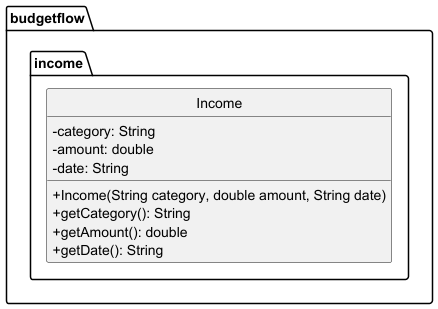
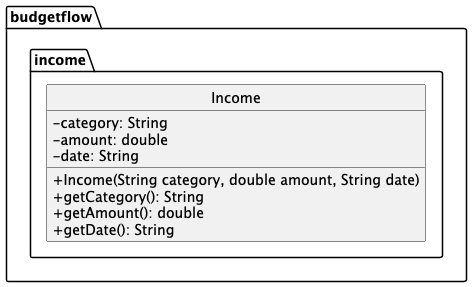
Add dg for ui print messages

Changed region(s): [[0.0594, 0.1394, 0.9498, 0.9199], [0.0, 0.0, 1.0, 1.0]]

diff --git a/docs/DeveloperGuide.md b/docs/DeveloperGuide.md
@@ -116,7 +116,9 @@ The sequence diagram below illustrates iteractions within Ui component under `re
 If no input is parsed by user, the programme continues to wait for new input and repeat scanning as shown below:  
   ![ref Diagram](images/refGetCommand.png)  
 * `public void printError(String error)`: print out the error message for user by passing the string error message.
-* `public void printMessage(String message)`: print out the message as a String for user.
+* `public void printMessage(String message)`: print out the message as a String for user.  
+The example sequence diagram below shows how `Ui` prints messages/ errors after the `Command` execution  
+  ![UI print message sequence](images/Ui_printMessageSequence.png)  
 
 ### Parser
 The `Parser` component consists of `Parser` class, which handles of identifying command type from user's input and return appropriate command object based of recognized command.  
@@ -140,7 +142,7 @@ The `Model` component of diagram can be further divided into 2 main parts:
   * `Income`: holding data of income in memory.
   * `ExpenseList`: holding data of all expenses in memory
 ### Income
-![Income Class Diagram](./diagrams/income_class.puml)
+![Income Class Diagram](diagrams/income_class.png)
 The class has three attributes: ```category (String), amount (double), date (String)```
 It includes:
 * A constructor to initialize these attributes.
